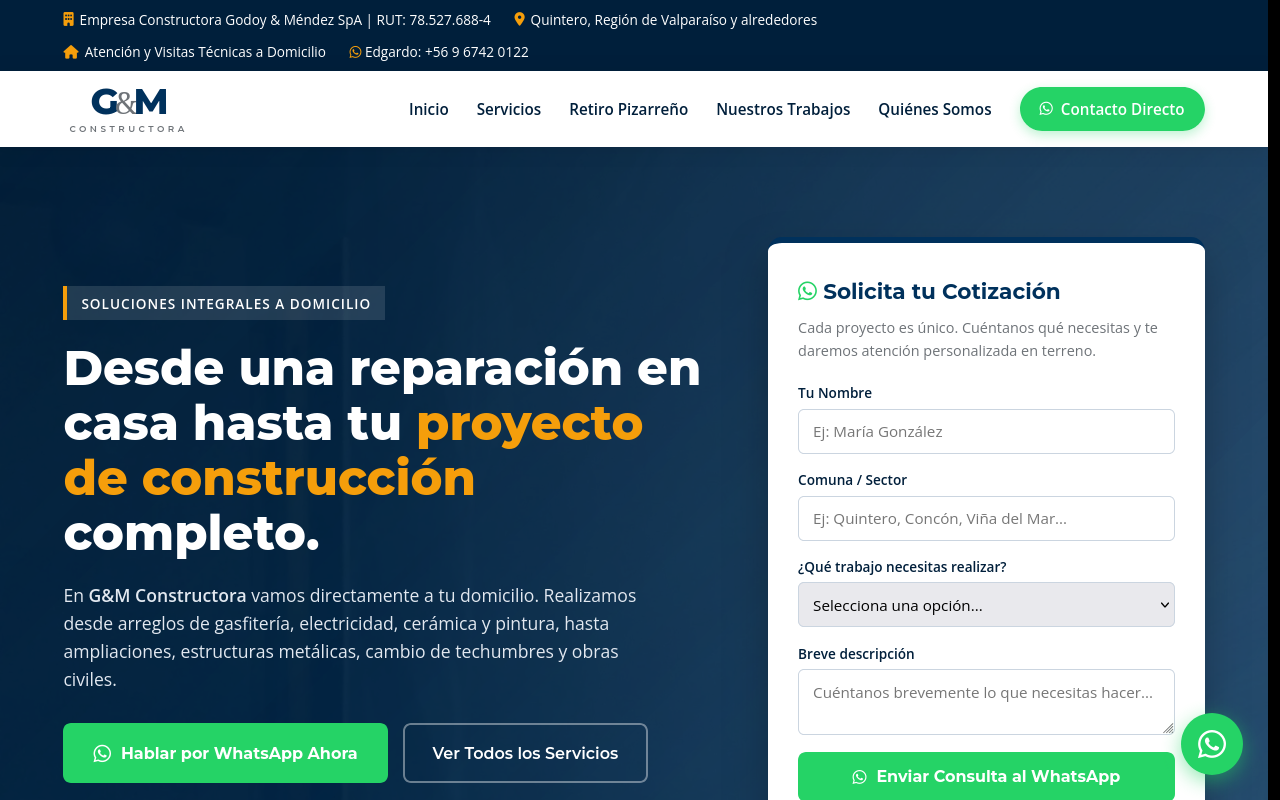
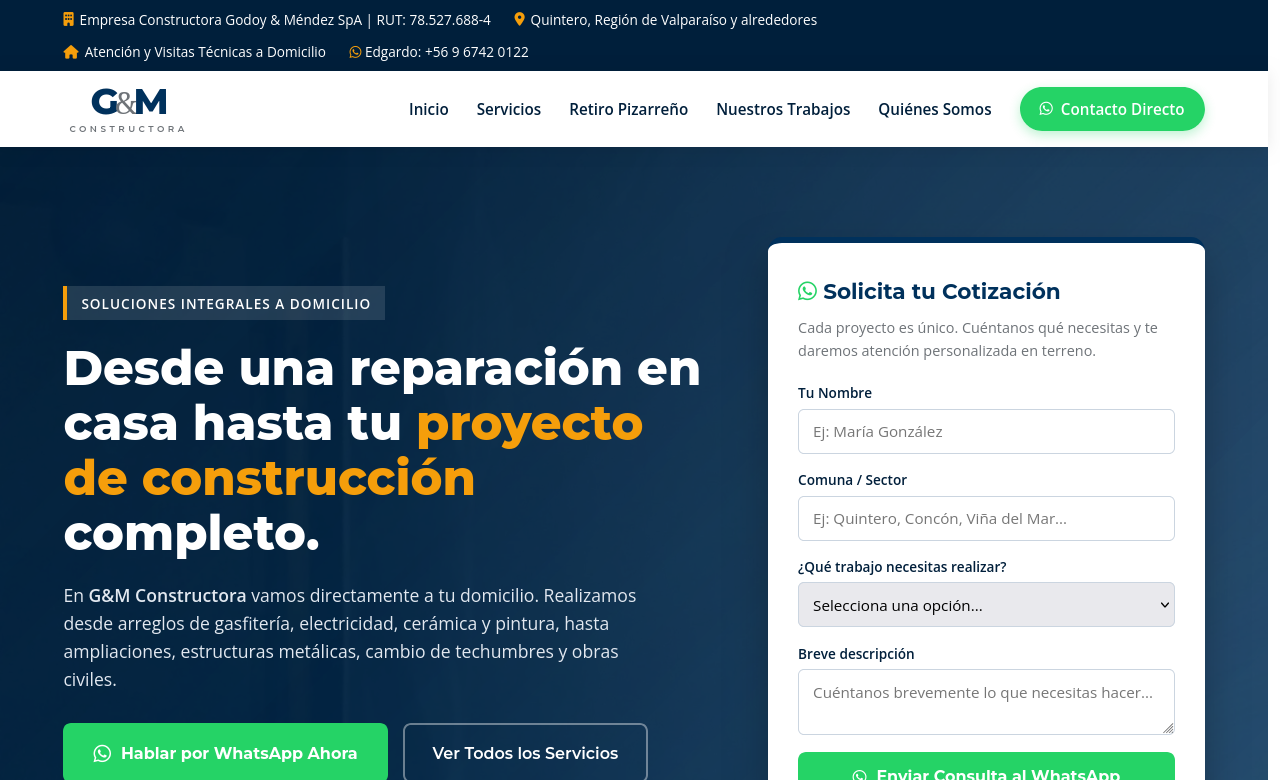
fix(docs): replace screenshots with distinct real section captures of the website

diff --git a/index.html b/index.html
@@ -196,7 +196,7 @@
             padding: 90px 5%;
             display: flex;
             align-items: center;
-            min-height: 82vh;
+            min-height: 650px;
         }
 
         .hero-content {
